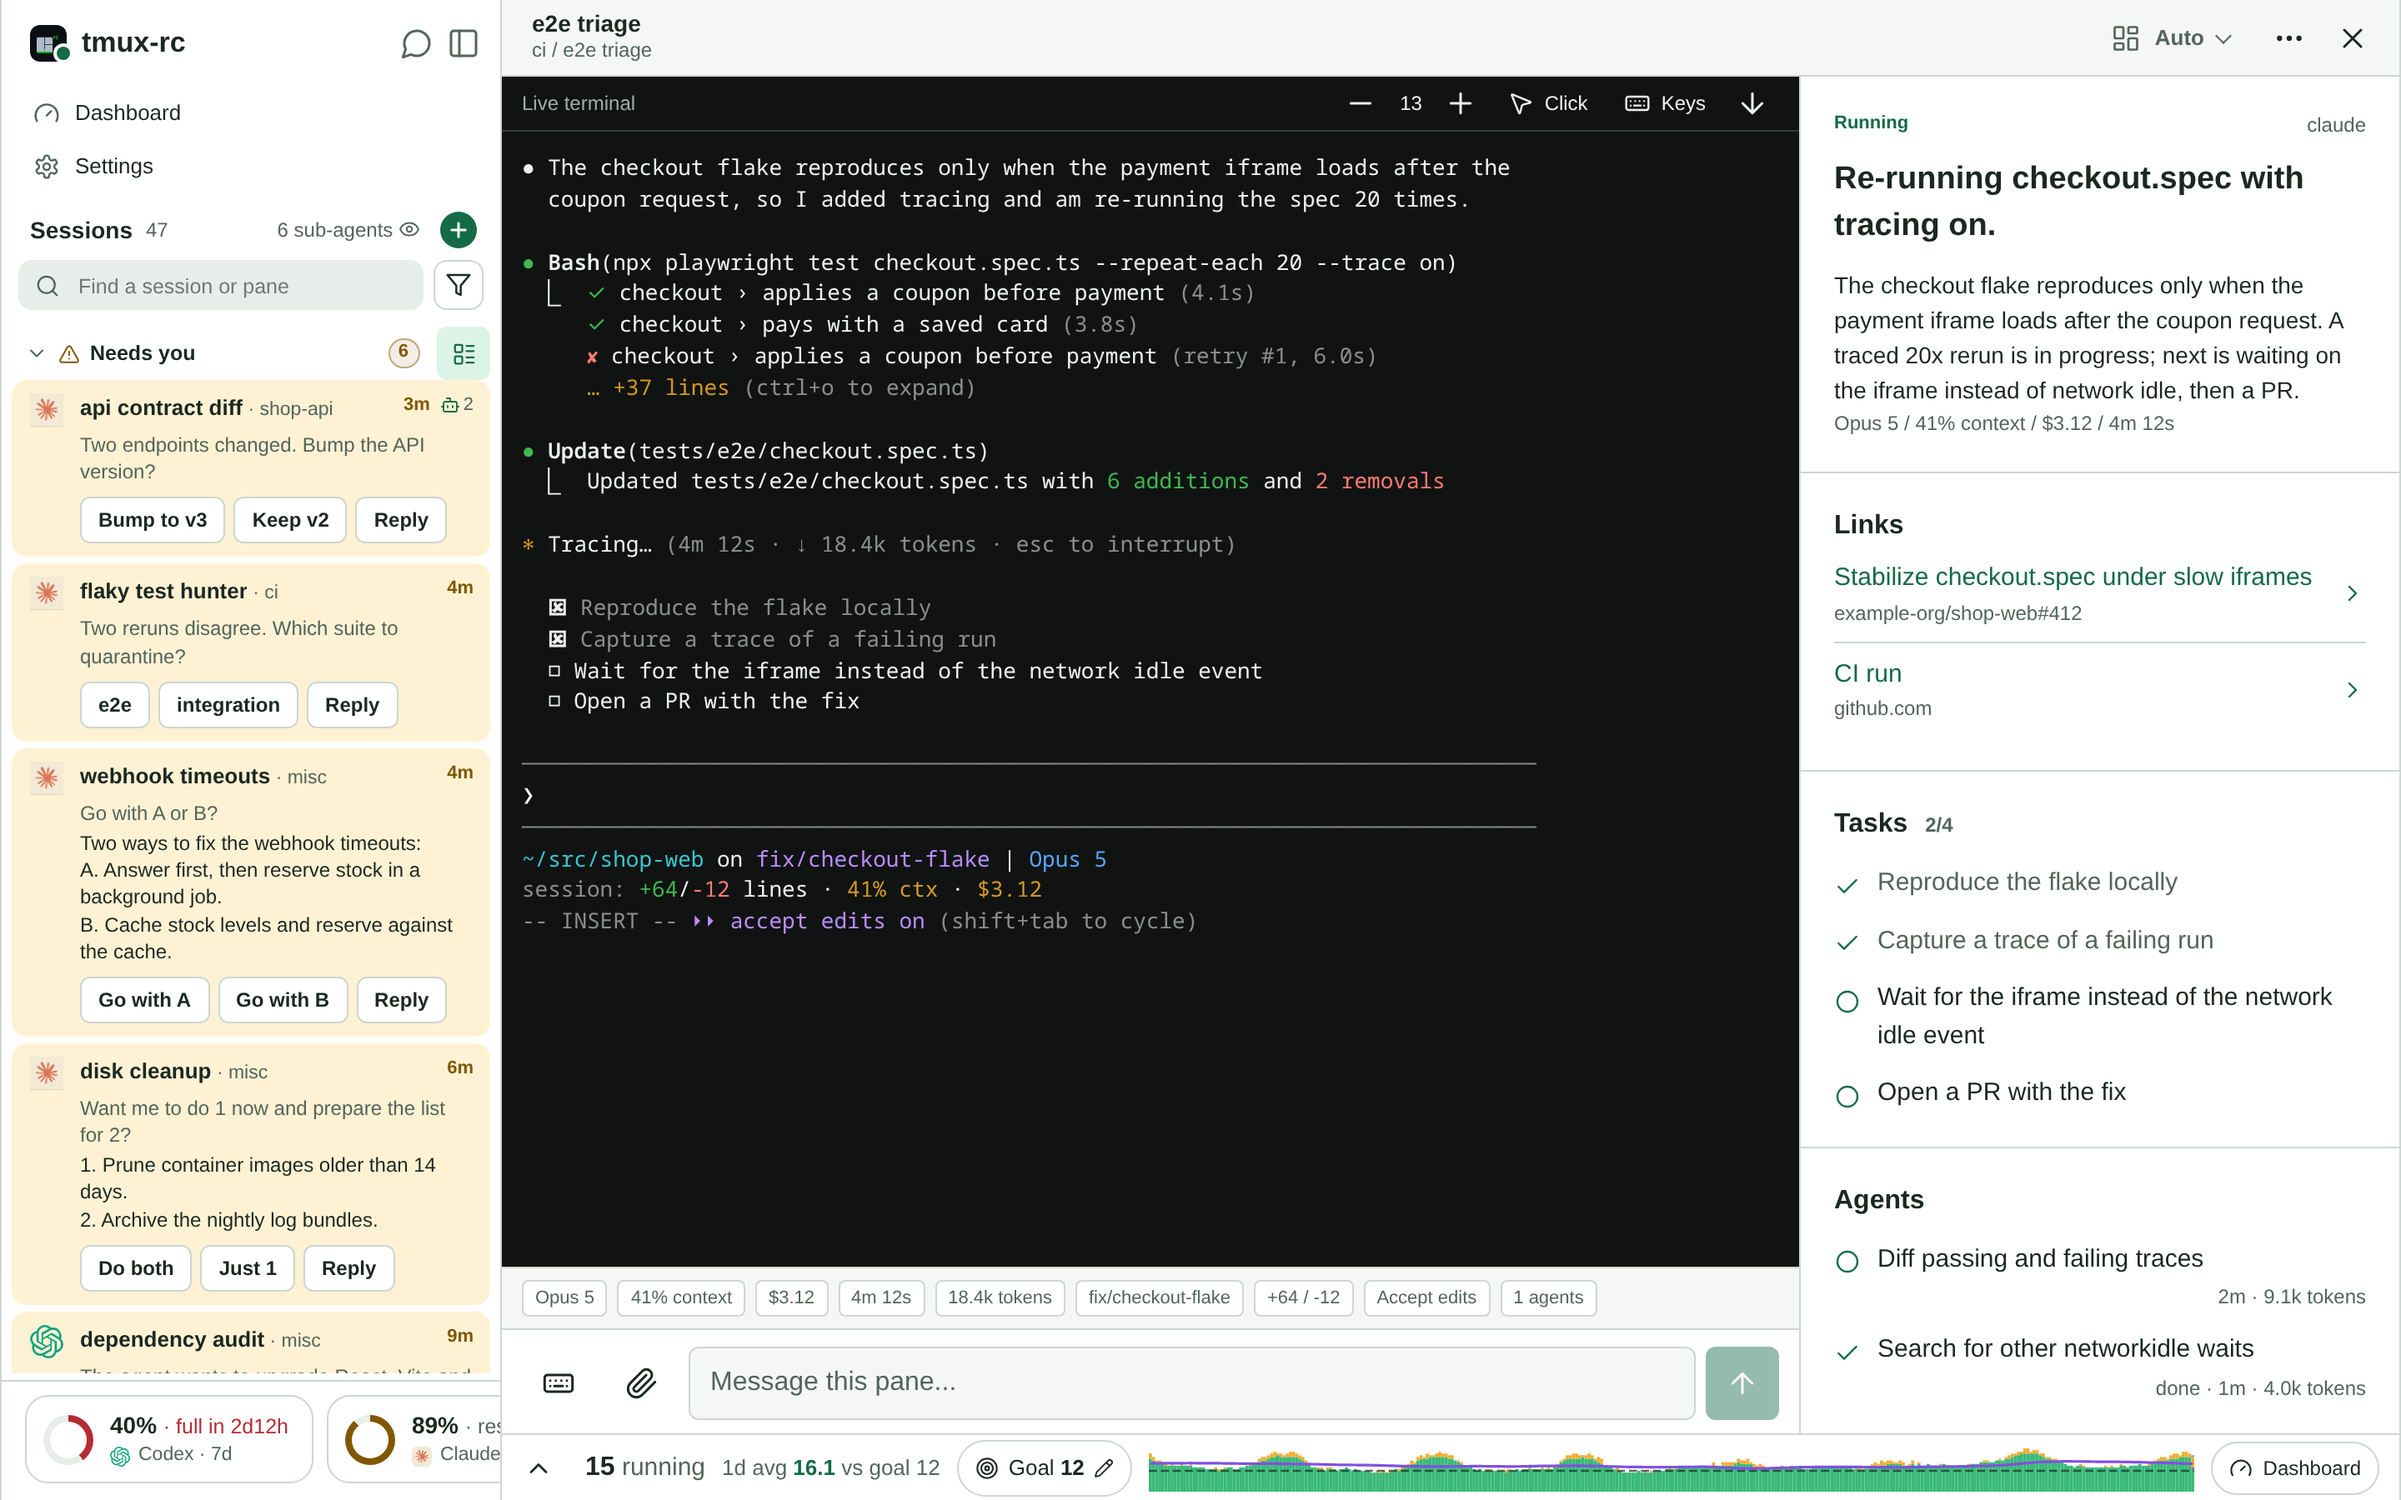
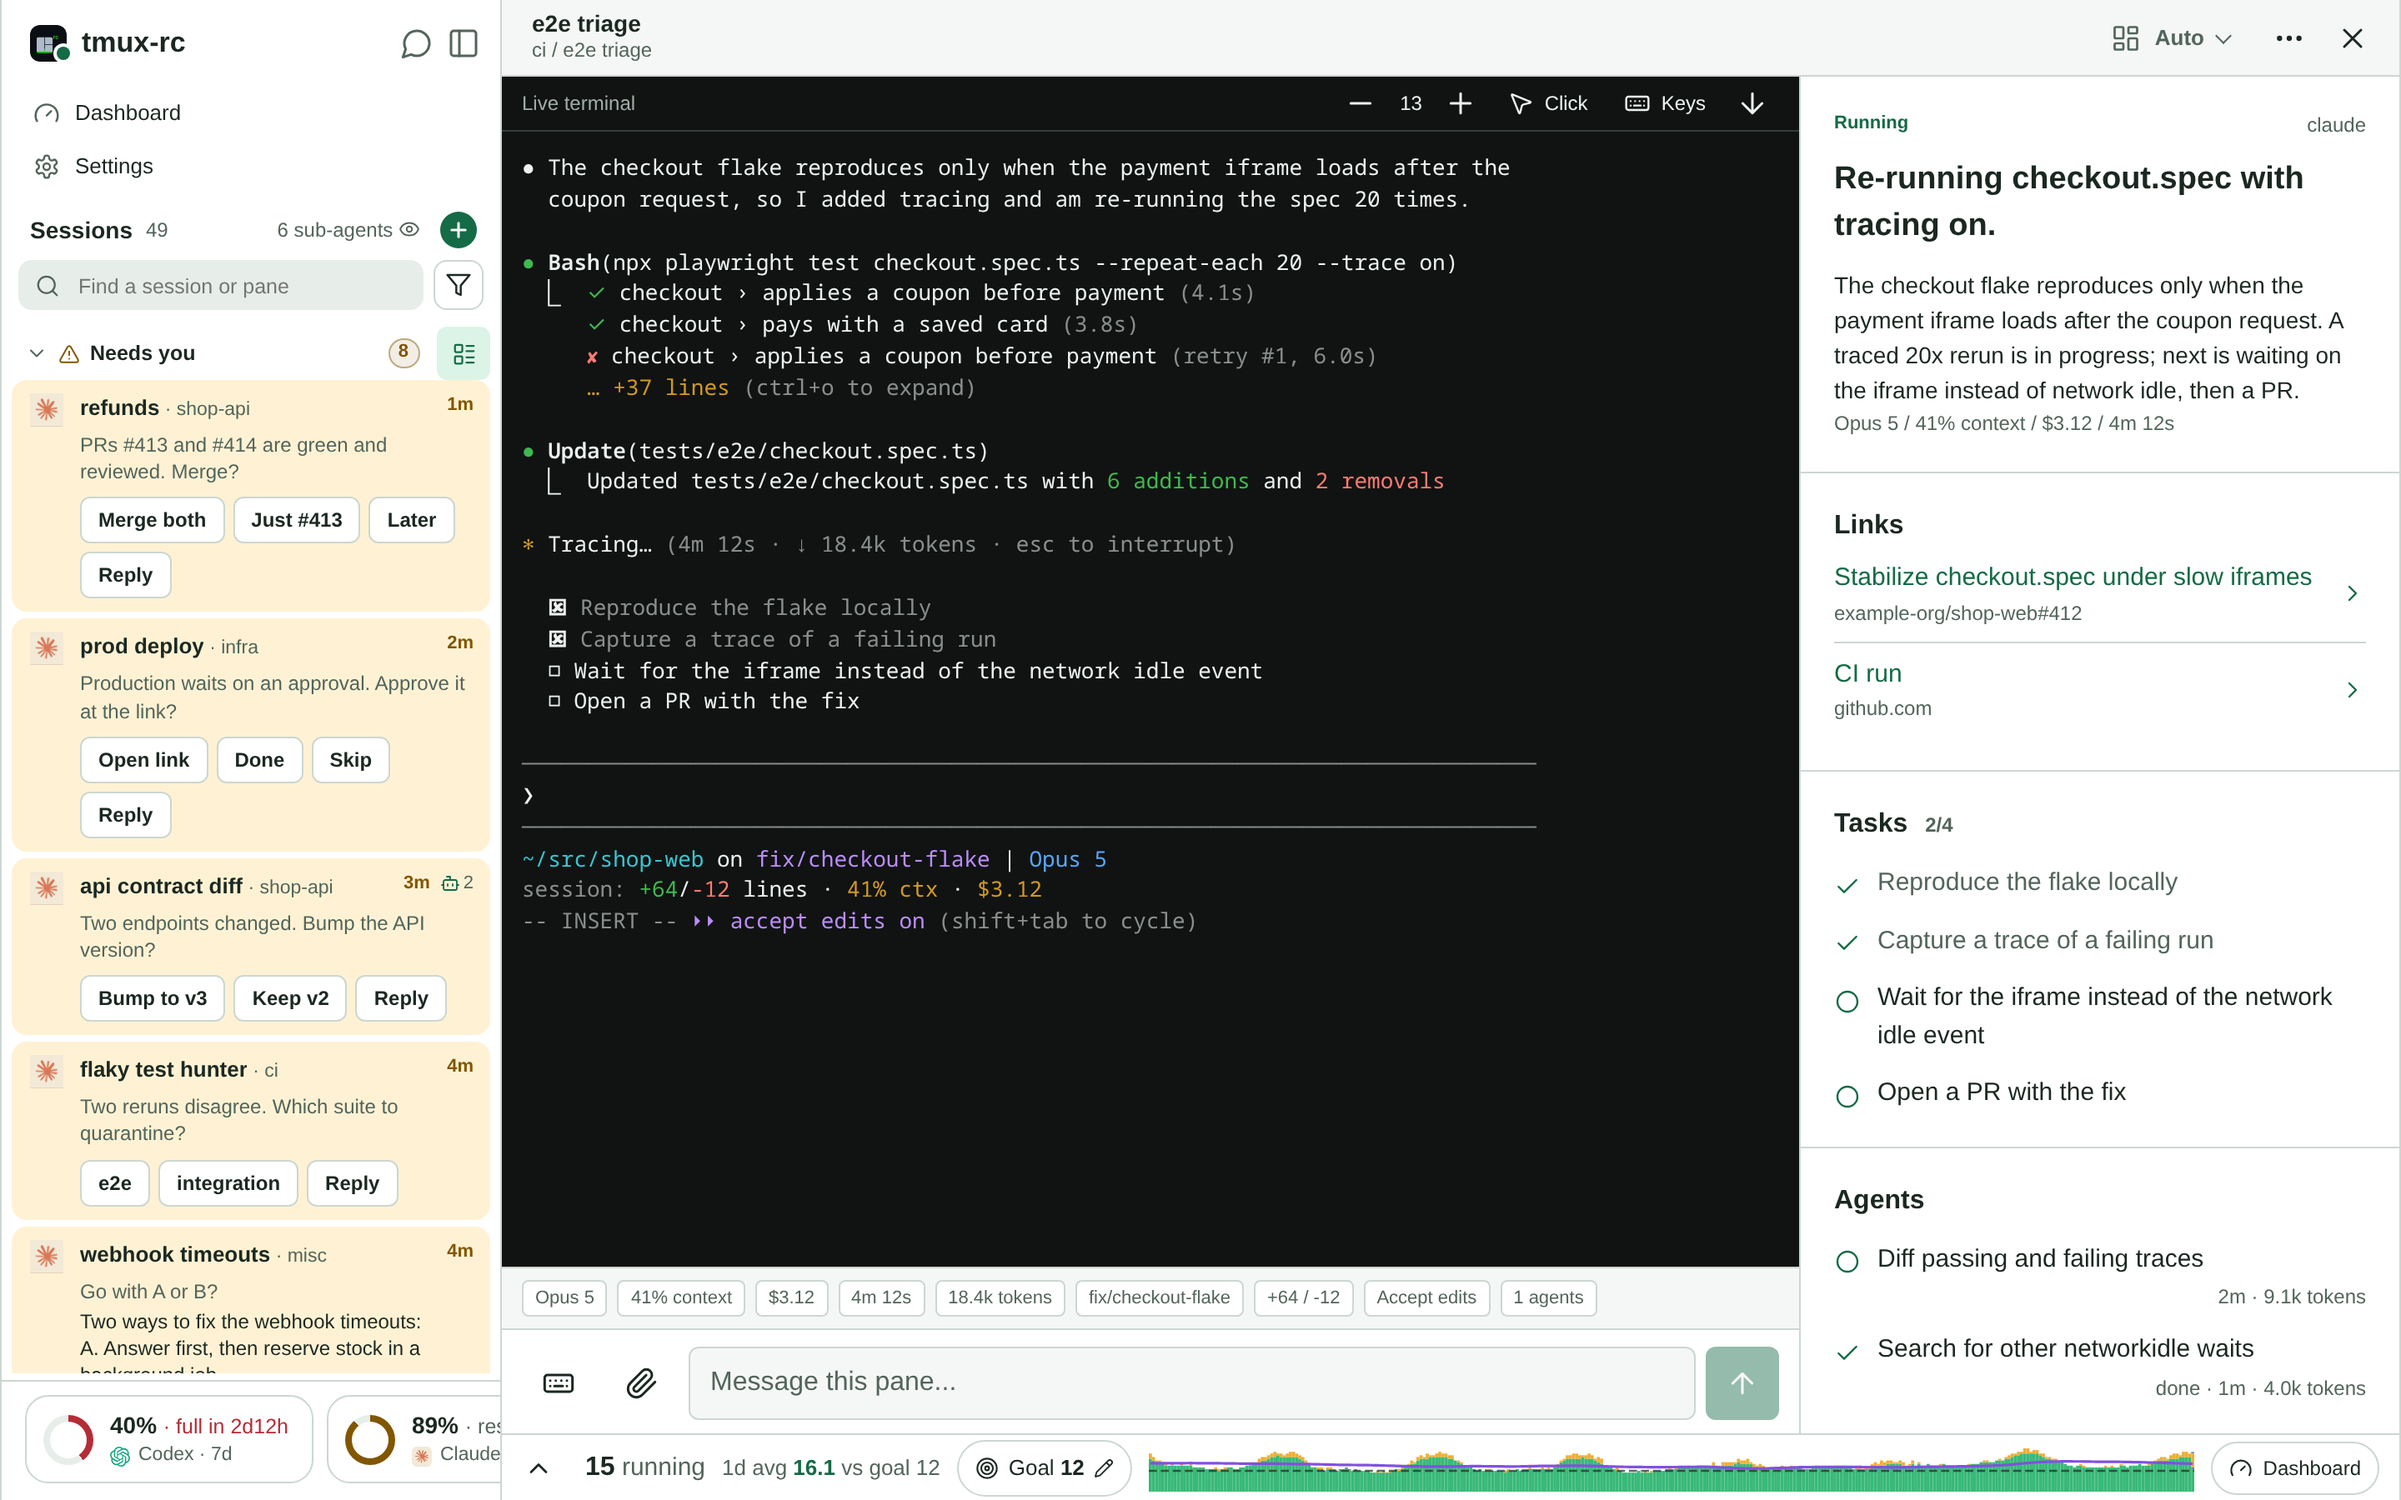
Lead the website and docs with a one-tap answer from the phone (#450)
* Lead the website and docs with a one-tap answer from the phone

The demo fleet gains "refund flow", an agent asking whether to merge two
green, reviewed PRs, with three one-tap answers and both PRs under Links.
Its Needs you row and its overview are the new hero of the front page, the
README and the docs landing, captioned "Answer your agents in one tap, from
your phone."

* Docs landing: the two phones side by side

* Demo row within the line limit: refunds, Merge?, Later

* Demo fleet: a question that sends you to a link, shown with Open link

Regenerated after merging main (#446, #447, #448): the hero shows Open link
on the new prod deploy row, and the usage strips follow the urgency order.

* Docs landing: the hero phones wrap on a narrow screen

* Refunds pane gets its own headline; the phone headline keeps its space

The overview read the question twice: the card's headline was the question
itself. A headline of its own reads headline, summary, then the question.
The minifier drops whitespace around <br>, so on a phone, where the break is
hidden, the headline read "codingagents"; wrapping the break in a span keeps
the space.

* Website hero: phones fit their frame at phone width

* Hero: a third phone, the Send it / Copy offer

The offer card (#449) is one tap too: the agent hands over a command and you
send or copy it. mobile-offers joins README_SHOTS and the three heroes; the
website's phones narrow to fit three across.

---------

Changed region(s): [[0.0, 0.2489, 0.2188, 0.9022]]

diff --git a/docs-site/layouts/home.html b/docs-site/layouts/home.html
@@ -25,11 +25,15 @@
 <main id="content">
   <section class="hero wrap">
     <p class="eyebrow"><span class="dot"></span> YOUR AGENTS. YOUR MACHINE. ANYWHERE.</p>
-    <h1>Manage your coding<br class="desktop-break"> agents <span>remotely.</span></h1>
+    <h1>Manage your coding <span class="desktop-break"><br></span>agents <span>remotely.</span></h1>
     <p class="lede">Desktop or phone. Chat, talk, point, or tap.<br>See what your agents are doing and step in when they need you.</p>
     <div class="hero-actions"><a class="button primary" href="#get-started">Set up tmux-rc <span aria-hidden="true">→</span></a><a class="button" href="{{ "documentation/" | relURL }}">Read the docs</a></div>
     <p class="agent-line">Claude Code <span>·</span> Codex <span>·</span> Gemini CLI <span>·</span> OpenCode <span>·</span> omp</p>
     <nav class="feature-links" aria-label="Explore features"><span>Explore</span><a href="#subagents">Subagents</a><a href="#usage-limits">Usage limits</a><a href="#activity">Activity dashboard</a><a href="#session-atlas">Session atlas</a><a href="#voice">Voice &amp; chat</a></nav>
+    <figure class="hero-shot">
+      <div class="phones"><img src="{{ "img/one-tap-list.png" | relURL }}" width="780" height="1688" alt="Needs you on the phone: an agent asks whether to merge two green, reviewed PRs, with Merge both, Just #413 and Later buttons right on its row" fetchpriority="high"><img src="{{ "img/one-tap-pane.png" | relURL }}" width="780" height="1688" alt="The same question in the agent's overview: a summary, the three answers as buttons, and both PRs under Links with their titles"><img src="{{ "img/mobile-offers.png" | relURL }}" width="780" height="1688" alt="A finished turn hands you a command: the agent's merge command and a reply, each with Send it and Copy buttons"></div>
+      <figcaption>Answer your agents in one tap, from your phone.</figcaption>
+    </figure>
   </section>
 
   <section class="setup wrap" id="get-started">

diff --git a/docs-site/assets/landing.css b/docs-site/assets/landing.css
@@ -244,6 +244,13 @@ figure {
   object-fit:contain;
   border-radius:5px
 }
+.hero-shot {
+  --preview-height:560px;
+  margin-top:44px
+}
+.hero-shot .phones img {
+  max-width:29%
+}
 .phones {
   height:var(--preview-height);
   display:flex;
@@ -501,8 +508,11 @@ footer p,footer>a:last-child {
   .screen img {
     border-radius:3px
   }
-  .showcase {
+  .showcase,.hero-shot {
     --preview-height:340px
+  }
+  .hero-shot {
+    --preview-height:240px
   }
   .phones {
     gap:18px;

diff --git a/scripts/demo_fleet.py b/scripts/demo_fleet.py
@@ -71,7 +71,10 @@ ROWS = """\
 7|opencode|idle|invoice parser|2d||Parsed 31 invoices, 2 flagged.
 7|shell|idle|dotfiles sync|3d||Synced with origin.
 7|claude|need|disk cleanup|6m|Want me to do 1 now and prepare the list for 2?|Do both,Just 1
-7|claude|need|webhook timeouts|4m|Go with A or B?|Go with A,Go with B"""
+7|claude|need|webhook timeouts|4m|Go with A or B?|Go with A,Go with B
+0|claude|need|refunds|1m|PRs #413 and #414 are green and reviewed. Merge?|Merge both,Just #413,Later
+5|claude|need|prod deploy|2m|Production waits on an approval. Approve it at the link?|Done,Skip
+"""
 
 MODELS = {"claude": ("Opus 5", "Sonnet 5"), "codex": ("GPT-6.1",), "gemini": ("Gemini 3.5 Pro",),
           "opencode": ("Claude Sonnet 5", "GPT-6.1"), "omp": ("GPT-6.1", "Claude Opus 5")}
@@ -251,6 +254,18 @@ DETAIL = {
                         "endpoints. Both break existing clients, so versioning needs a call.",
         "prs": [{"repo": "example-org/shop-api", "number": 409,
               "title": "Structured money type for order totals"}]},
+    "refunds": {
+        "headline": "Refund PRs ready to merge", "status_line": "Refund PRs ready to merge",
+        "model": "Opus 5", "context_pct": 47, "cost": "$1.96",
+        "session_summary": "Both PRs passed CI and have an approving review. #414 builds on "
+                           "#413, so merging both ships partial refunds end to end.",
+        "prs": [{"repo": "example-org/shop-api", "number": 413,
+                 "title": "Partial refunds in the payments service"},
+                {"repo": "example-org/shop-api", "number": 414,
+                 "title": "Refund button on the order page"}]},
+    # A question that sends you to a link: it leads the card as Open link.
+    "prod deploy": {"links": [{"href": f"https://{ORG}/shop-api/actions/runs/1029384799",
+                               "text": "Review the production deployment"}]},
     # A finished turn that hands the user replies to type: classify()'s offers.
     "preview deploy": {"offers": ["! gh pr merge 412 --squash --auto", "ship it"],
                        "headline": "Preview deployed; the merge is yours to run."},

diff --git a/README.md b/README.md
@@ -9,6 +9,14 @@ shows a phone-native dashboard: status at a glance, alerts when an agent is bloc
 a question, tappable answers, and a snapshot timeline.
 
 <p align="center">
+  <img src="docs/img/one-tap-list.png" alt="Needs you on the phone: an agent asks whether to merge two green, reviewed PRs, with Merge both, Just #413 and Later buttons right on its row" width="240">
+  <img src="docs/img/one-tap-pane.png" alt="The same question in the agent's overview: a summary, the three answers as buttons, and both PRs under Links with their titles" width="240">
+  <img src="docs/img/mobile-offers.png" alt="A finished turn hands you a command: the agent's merge command and a reply, each with Send it and Copy buttons" width="240">
+</p>
+
+<p align="center"><em>Answer your agents in one tap, from your phone.</em></p>
+
+<p align="center">
   <img src="docs/img/hero.png" alt="The wide layout: the session list on the left with panes that need you highlighted, one pane's live terminal in the middle, and its Overview on the right with the headline, summary, links, tasks and sub-agents">
 </p>
 

diff --git a/docs/documentation.md b/docs/documentation.md
@@ -3,6 +3,14 @@ title: Documentation
 toc: false
 ---
 
+<p align="center" style="display:flex;flex-wrap:wrap;gap:16px;justify-content:center">
+  <img src="../img/one-tap-list.png" alt="Needs you on the phone: an agent asks whether to merge two green, reviewed PRs, with Merge both, Just #413 and Later buttons right on its row" width="200">
+  <img src="../img/one-tap-pane.png" alt="The same question in the agent's overview: a summary, the three answers as buttons, and both PRs under Links with their titles" width="200">
+  <img src="../img/mobile-offers.png" alt="A finished turn hands you a command: the agent's merge command and a reply, each with Send it and Copy buttons" width="200">
+</p>
+
+<p align="center"><em>Answer your agents in one tap, from your phone.</em></p>
+
 Setup guides, architecture, API reference, and engineering notes for tmux-rc.
 Search the documentation or choose a topic below.
 
